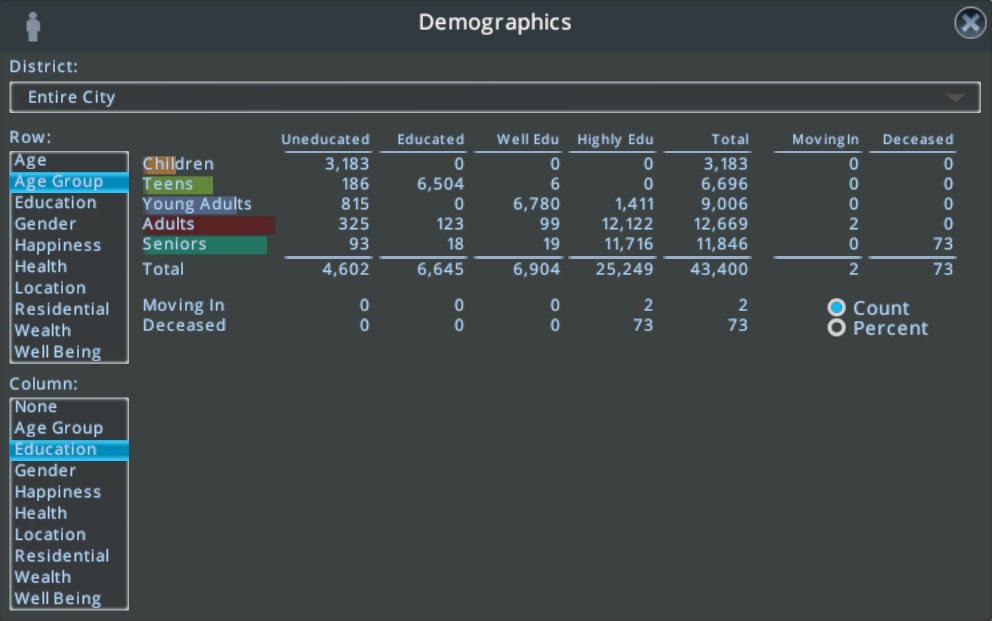
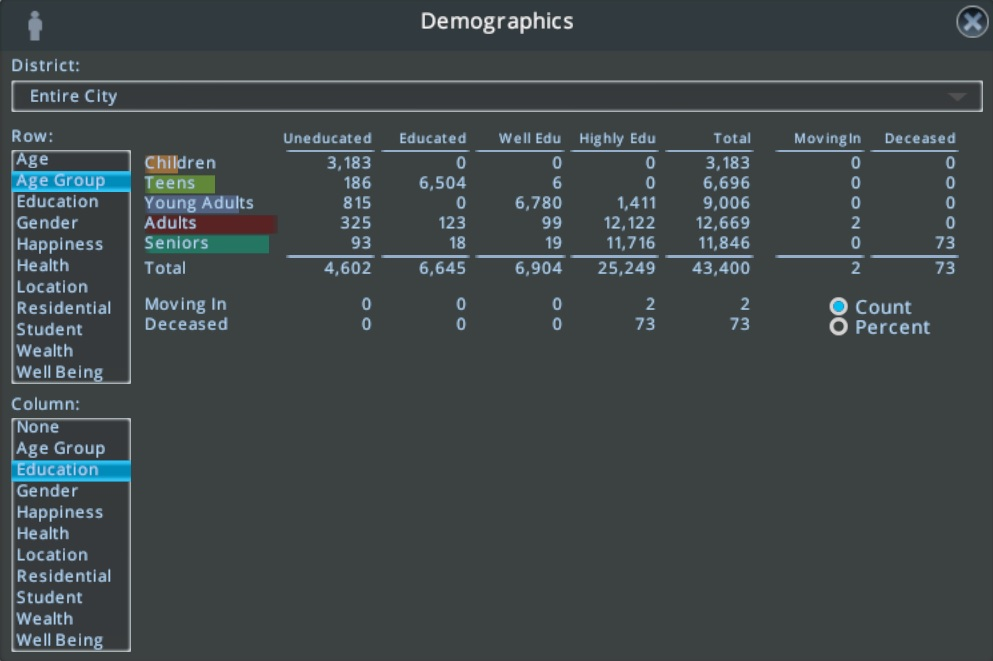
Version 2.1

Changed region(s): [[0.0, 0.0918, 1.0, 1.0], [0.4062, 0.0, 0.5938, 0.0612], [0.9375, 0.0, 1.0, 0.0612]]

diff --git a/PopulationDemographicsPanel.cs b/PopulationDemographicsPanel.cs
@@ -45,6 +45,7 @@ namespace PopulationDemographics
             Health,
             Location,
             Residential,
+            Student,
             Wealth,
             WellBeing
         }
@@ -67,6 +68,7 @@ namespace PopulationDemographics
             Health,
             Location,
             Residential,
+            Student,
             Wealth,
             WellBeing
         }
@@ -236,6 +238,7 @@ namespace PopulationDemographics
             public Citizen.Health       health;
             public Citizen.Location     location;
             public ItemClass.Level      residential;
+            public ItemClass.Level      student;    // None (i.e. -1) = not a student, Levels 1-3 (i.e. 0-2) = Elementary, High School, University
             public Citizen.Wealth       wealth;
             public Citizen.Wellbeing    wellbeing;
         }
@@ -738,6 +741,8 @@ namespace PopulationDemographics
                                                                                    new Color32[] { colorLocationHome,        colorLocationWork,      colorLocationVisiting,      colorLocationMoving                                                        }) },
                 { RowSelection.Residential, new SelectionAttributes("Residential", new string[]  { "Level 1",                "Level 2",              "Level 3",                  "Level 4",                    "Level 5"                                    },
                                                                                    new Color32[] { colorResidentialLevel1,   colorResidentialLevel2, colorResidentialLevel3,     colorResidentialLevel4,       colorResidentialLevel5                       }) },
+                { RowSelection.Student,     new SelectionAttributes("Student",     new string[]  { "Not a Student",          "Elementary",           "High School",              "University"                                                               },
+                                                                                   new Color32[] { colorEducationUneducated, colorEducationEducated, colorEducationWellEducated, colorEducationHighlyEducated                                               }) },
                 { RowSelection.Wealth,      new SelectionAttributes("Wealth",      new string[]  { "Low",                    "Medium",               "High"                                                                                                 },
                                                                                    new Color32[] { colorWealthLow,           colorWealthMedium,      colorWealthHigh                                                                                        }) },
                 { RowSelection.WellBeing,   new SelectionAttributes("Well Being",  new string[]  { "Very Sad",               "Sad",                  "Satisfied",                "Happy",                      "Very Happy"                                 },
@@ -777,6 +782,7 @@ namespace PopulationDemographics
                 { ColumnSelection.Health,      new SelectionAttributes("Health",      new string[] { "Very Sick",  "Sick",     "Poor",       "Healthy",   "VeryHealthy", "Excellent" }, null) },
                 { ColumnSelection.Location,    new SelectionAttributes("Location",    new string[] { "Home",       "Work",     "Visiting",   "Moving"                                }, null) },
                 { ColumnSelection.Residential, new SelectionAttributes("Residential", new string[] { "Level 1",    "Level 2",  "Level 3",    "Level 4",   "Level 5"                  }, null) },
+                { ColumnSelection.Student,     new SelectionAttributes("Student",     new string[] { "NotStudent", "Elementary","HighSchool","University"                            }, null) },
                 { ColumnSelection.Wealth,      new SelectionAttributes("Wealth",      new string[] { "Low",        "Medium",   "High"                                                }, null) },
                 { ColumnSelection.WellBeing,   new SelectionAttributes("Well Being",  new string[] { "Very Sad",   "Sad",      "Satisfied",  "Happy",     "VeryHappy"                }, null) }
             };
@@ -1336,6 +1342,7 @@ namespace PopulationDemographics
                                 citizenDemographic.health      = Citizen.GetHealthLevel(citizen.m_health);
                                 citizenDemographic.location    = citizen.CurrentLocation;
                                 citizenDemographic.residential = homeBuilding.Info.m_class.m_level;
+                                citizenDemographic.student     = citizen.GetCurrentSchoolLevel(citizenID);
                                 citizenDemographic.wealth      = citizen.WealthLevel;
                                 citizenDemographic.wellbeing   = Citizen.GetWellbeingLevel(citizen.EducationLevel, citizen.m_wellbeing);
 
@@ -1530,6 +1537,7 @@ namespace PopulationDemographics
                                     case RowSelection.Health:      row = (int)citizen.health;      break;
                                     case RowSelection.Location:    row = (int)citizen.location;    break;
                                     case RowSelection.Residential: row = (int)citizen.residential; break;
+                                    case RowSelection.Student:     row = (int)citizen.student + 1; break;   // student starts at -1 for None
                                     case RowSelection.Wealth:      row = (int)citizen.wealth;      break;
                                     case RowSelection.WellBeing:   row = (int)citizen.wellbeing;   break;
                                     default:
@@ -1549,6 +1557,7 @@ namespace PopulationDemographics
                                     case ColumnSelection.Health:      column = (int)citizen.health;      break;
                                     case ColumnSelection.Location:    column = (int)citizen.location;    break;
                                     case ColumnSelection.Residential: column = (int)citizen.residential; break;
+                                    case ColumnSelection.Student:     column = (int)citizen.student + 1; break;     // student starts at -1 for None
                                     case ColumnSelection.Wealth:      column = (int)citizen.wealth;      break;
                                     case ColumnSelection.WellBeing:   column = (int)citizen.wellbeing;   break;
                                     default:

diff --git a/Properties/AssemblyInfo.cs b/Properties/AssemblyInfo.cs
@@ -21,7 +21,7 @@ using System.Runtime.InteropServices;
 // The AssemblyVersion has the format "{Major}.{Minor}.{Build}.{Revision}".
 // The form "{Major}.{Minor}.*" will automatically update the build and revision.
 // The form "{Major}.{Minor}.{Build}.*" will update just the revision.
-[assembly: AssemblyVersion("2.0.*")]
+[assembly: AssemblyVersion("2.1.*")]
 
 // The AssemblyFileVersion is commented out which causes the AssemblyFileVersion to be the same as the AssemblyVersion, as desired.
 //[assembly: AssemblyFileVersion("1.0.0.0")]
